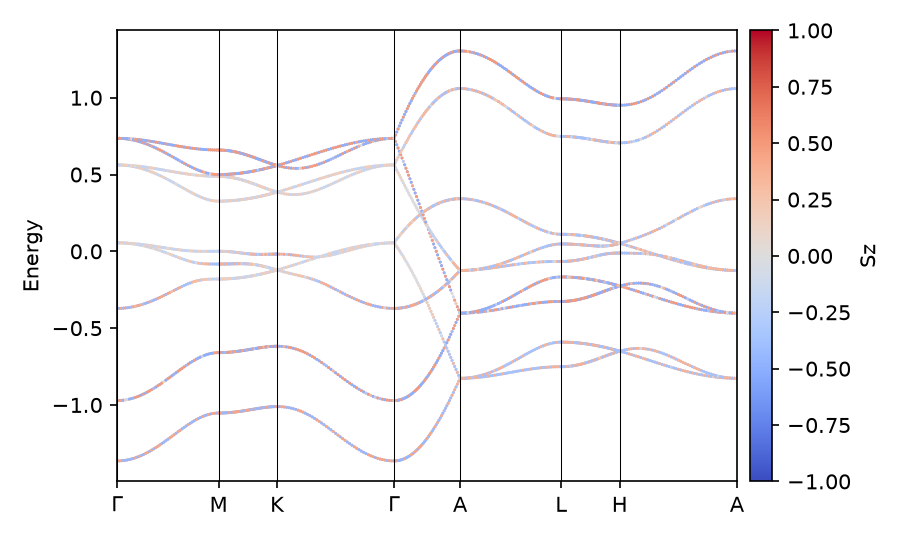
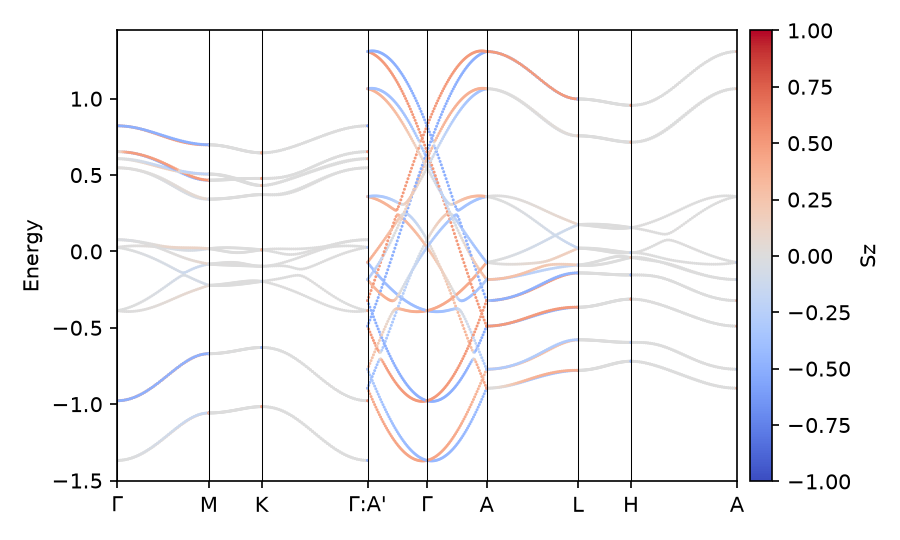
Give the antisymmetric spin-orbit coupling in the example of Te
The control of Te gave only the on-site (symmetric) spin-orbit coupling z6
(l.s) and spin-independent Q hoppings, which are all even under the
inversion, so that the bands stayed doubly degenerate at every k point,
while the docs described a spin splitting. Add the antisymmetric spin-orbit
coupling within the chains, z22 and z23 (G_0^(1,-1;c)(A1): the spin
sigma_z, or sigma_x and sigma_y, with the anti-symmetric bond function of the
first neighbor), which splits the bands (by up to 0.2 eV), and plot
A'-Gamma-A (A' = -A), where the spin of the split bands is exchanged between
k_z and -k_z. The docs (EN/JA) explain why the splitting needs a G SAMB.

diff --git a/docs/src/examples/materials/Te_ctrl.py b/docs/src/examples/materials/Te_ctrl.py
@@ -1,19 +1,22 @@
-# Te_ctrl.py: illustrative weights (not fitted), with the spin-orbit coupling.
+# Te_ctrl.py: illustrative weights (not fitted), with the symmetric and antisymmetric spin-orbit couplings.
 Te_ctrl = {
     "samb": {
         "model": "Te",
         "parameter": {
-            "z6": 1.0,  # on-site spin-orbit coupling.
+            "z6": 1.0,  # on-site (symmetric) spin-orbit coupling, l.s.
             "z10": -2.0,  # intra-chain hopping.
             "z11": 1.0,  # intra-chain hopping.
+            "z22": 0.3,  # intra-chain antisymmetric spin-orbit coupling (sigma_z).
+            "z23": 0.3,  # intra-chain antisymmetric spin-orbit coupling (sigma_x, sigma_y).
             "z31": -0.5,  # inter-chain hopping.
         },
     },
     "output": {
         "dispersion": {
-            "k_path": "Γ-M-K-Γ-A-L-H-A",
+            "k_path": "Γ-M-K-Γ|A'-Γ-A-L-H-A",  # A'-Γ-A: k_z and -k_z.
             "k_point": {
                 "Γ": "[0,0,0]",
+                "A'": "[0,0,-1/2]",
                 "M": "[1/2,0,0]",
                 "K": "[1/3,1/3,0]",
                 "A": "[0,0,1/2]",

diff --git a/docs/src/materials.md b/docs/src/materials.md
@@ -136,17 +136,27 @@ The model has 66 SAMB ([Te.pdf](examples/materials/Te.pdf)):
 ```
 :::
 
-Two features show up:
+Three features show up:
 
 - **Spin-dependent SAMB.** In a spinful model, the atomic SAMB include the spin, written with the superscript
-  $(s, k)$ with $s = 1$. For example, $z_6$, $\mathbb{Q}_{0}^{(1,1;c)}(A_1)$, is the on-site spin-orbit coupling,
-  proportional to $\boldsymbol{l} \cdot \boldsymbol{s}$.
+  $(s, k)$ with $s = 1$. For example, $z_6$, $\mathbb{Q}_{0}^{(1,1;c)}(A_1)$, is the on-site (symmetric) spin-orbit
+  coupling, proportional to $\boldsymbol{l} \cdot \boldsymbol{s}$.
 - **Electric toroidal (`G`) SAMB.** As D$_3$ has only rotations, the axial (`G`) SAMB of the identity irrep are
   allowed in the Hamiltonian together with the polar (`Q`) ones, e.g., $\mathbb{G}_{0}^{(c)}(A_1)$ ($z_{19}$, $z_{20}$),
   the electric toroidal monopole of the bonds, which represents the chirality.
+- **Antisymmetric spin-orbit coupling.** $z_{22}$ and $z_{23}$, $\mathbb{G}_{0}^{(1,-1;c)}(A_1)$, combine the spin
+  $\sigma_z$ ($z_{22}$) or $\sigma_x, \sigma_y$ ($z_{23}$), independent of the orbitals, with the anti-symmetric
+  (pure imaginary) bond function of the first neighbor: a spin-dependent hopping odd under the exchange of the two ends
+  of a bond, $\propto i\,\boldsymbol{\sigma} \cdot \boldsymbol{d}$ along a bond $\boldsymbol{d}$. It is the
+  spin-orbit coupling allowed by the chirality (a `G` monopole, i.e., a pseudoscalar), which gives $\boldsymbol{\sigma}
+  \cdot \boldsymbol{k}$ near $\Gamma$.
 
-The control gives the spin-orbit coupling and the hoppings within and between the chains, and computes the
-expectation value of $S_z$ along the k path (`"local": ["Sz"]`), shown in color:
+The spin splitting of the bands needs a term odd under the inversion, i.e., a `G` SAMB of the identity irrep of D$_3$
+(which belongs to $A_{1u}$ of D$_{3d}$). The on-site spin-orbit coupling $z_6$ is even, so that with $z_6$ and the
+spin-independent `Q` hoppings only, the bands stay doubly degenerate at every k point. The control gives the on-site
+spin-orbit coupling, the antisymmetric spin-orbit coupling within the chains ($z_{22}$, $z_{23}$), and the hoppings
+within and between the chains, and computes the expectation value of $S_z$ along the k path (`"local": ["Sz"]`), shown
+in color:
 
 ```{literalinclude} examples/materials/Te_ctrl.py
 ```
@@ -155,10 +165,12 @@ expectation value of $S_z$ along the k path (`"local": ["Sz"]`), shown in color:
 :width: 600px
 ```
 
-Without the inversion, the spin-orbit coupling splits the bands except at the time-reversal invariant momenta, e.g.,
-$\Gamma$ and A, where the bands are doubly degenerate (Kramers). Along $\Gamma$-A (the chain direction, $k_z$), each
-pair of split bands is polarized along $z$ with opposite signs (red and blue), i.e., the spin is parallel or
-anti-parallel to $\boldsymbol{k}$: the radial spin texture of a chiral crystal.
+With the antisymmetric spin-orbit coupling, the bands split except at the time-reversal invariant momenta, e.g.,
+$\Gamma$ and A, where the bands are doubly degenerate (Kramers). The path A'-$\Gamma$-A, with A' = $-$A, runs along
+the chain direction from $-k_z$ to $k_z$. Each pair of split bands is polarized along $z$ with opposite signs (red and
+blue), and the red and blue are exchanged between $k_z$ and $-k_z$: the spin splitting is odd in $\boldsymbol{k}$
+(time reversal maps the state at $\boldsymbol{k}$ to the one at $-\boldsymbol{k}$ with the opposite spin). The spin is
+parallel or anti-parallel to $\boldsymbol{k}$: the radial spin texture of a chiral crystal.
 
 (checks-by-symmetry)=
 ## Checks by symmetry
